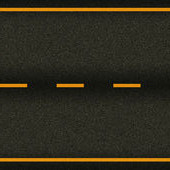
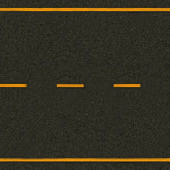
Изменения в дизайне

diff --git a/src/ConstructorController.java b/src/ConstructorController.java
@@ -240,8 +240,8 @@ public class ConstructorController {
         if (message == null) {
             modelingParking = new Parking(constructorParking.getFunctionalBlockH(), constructorParking.getFunctionalBlockV(), graphicsContextModeling, size, constructorParking);
             clearModelingContext();
-            modelingParking.drawFunctionalBlocks();
-            modelingParking.drawHighway();
+            modelingParking.drawFunctionalBlocksInModeling();
+            modelingParking.drawHighwayInModeling();
             SingleSelectionModel<Tab> singleSelectionModel = tabPane.getSelectionModel();
             singleSelectionModel.select(1);
         }
@@ -286,9 +286,8 @@ public class ConstructorController {
             String message = getErrorMessage(modelingParking);
             if (message == null) {
                 clearModelingContext();
-                modelingParking.drawHighway();
-                modelingParking.drawMarkup();
-                modelingParking.drawFunctionalBlocks();
+                modelingParking.drawHighwayInModeling();
+                modelingParking.drawFunctionalBlocksInModeling();
 
             } else {
                 Alert alert = new Alert(Alert.AlertType.WARNING);
@@ -369,10 +368,8 @@ public class ConstructorController {
 
                         // Путь от въезда до парковочного места
 
-                        ArrayList<Node> pathToFreeParkingPlace = graph.getPathToFreeParkingPlace();
-                        car.setPath(pathToFreeParkingPlace);
-                        car.setParkingPlace(pathToFreeParkingPlace.get(pathToFreeParkingPlace.size() - 1));
-                        for (Node step : car.getPath()
+                        car.setParkingPlace(graph.getFreeParkingPlace());
+                        for (Node step : car.getPathToEntry()
                                 ) {
                             path.getElements().add(new LineTo(step.getI() * size + modelingParking.getHORIZONTAL_MARGIN() + 25,
                                     step.getJ() * size + modelingParking.getVERTICAL_MARGIN() + 25));
@@ -392,7 +389,7 @@ public class ConstructorController {
                             pathTransition1.setPath(emptyPath);
                             pathTransition1.setInterpolator(Interpolator.LINEAR);
                             pathTransition1.setDuration(Duration.millis(0.1));
-                            pathTransition1.setDelay(Duration.millis(Distribution.getUniformDistribution(2000, 10000)));
+                            pathTransition1.setDelay(Duration.millis(Distribution.getUniformDistribution(20000, 100000)));
 
                             pathTransition1.setOnFinished(event1 -> {
                                 PathTransition delay = (PathTransition) event.getSource();
@@ -403,11 +400,10 @@ public class ConstructorController {
 
                                 pathToDeparture.getElements().add(new MoveTo(car_car_car.getParkingPlace().getI() * size + modelingParking.getHORIZONTAL_MARGIN() + 25,
                                         car_car_car.getParkingPlace().getJ() * size + modelingParking.getVERTICAL_MARGIN() + 25));
-                                car_car_car.setPath(graph.getPath1(car_car_car.getParkingPlace(), graph.getDeparture()));
 
                                 //Путь от парковочного места до выезда
 
-                                for (Node step : car_car_car.getPath()
+                                for (Node step : car_car_car.getPathToDeparture()
                                         ) {
                                     pathToDeparture.getElements().add(new LineTo(step.getI() * size + modelingParking.getHORIZONTAL_MARGIN() + 25,
                                             step.getJ() * size + modelingParking.getVERTICAL_MARGIN() + 25));
@@ -428,7 +424,7 @@ public class ConstructorController {
 
                                 pathToDeparture.getElements().add(new LineTo(modeling.getWidth() + 50, modelingParking.getVERTICAL_MARGIN() + modelingParking.getFunctionalBlockV() * size + 25));
 
-                                pathTransitionFromParkingPlace.setDuration(Duration.millis((modelingParking.getHORIZONTAL_MARGIN() / size * 500) + car_car_car.getPath().size() * 500 + (modelingParking.getFunctionalBlockH() - graph.getDeparture().getI()) * 500));
+                                pathTransitionFromParkingPlace.setDuration(Duration.millis((modelingParking.getHORIZONTAL_MARGIN() / size * 500) + car_car_car.getPathToDeparture().size() * 500 + (modelingParking.getFunctionalBlockH() - graph.getDeparture().getI()) * 500));
                                 pathTransitionFromParkingPlace.setPath(pathToDeparture);
                                 pathTransitionFromParkingPlace.setNode(car_car_car);
                                 pathTransitionFromParkingPlace.setPath(pathToDeparture);
@@ -446,7 +442,7 @@ public class ConstructorController {
                             pathTransition1.play();
                         });
                         pathTransition.setDuration(Duration.millis(graph.getEntry().getI() * 500
-                                + (modelingParking.getHORIZONTAL_MARGIN() / size * 500) + car.getPath().size() * 500));
+                                + (modelingParking.getHORIZONTAL_MARGIN() / size * 500) + car.getPathToEntry().size() * 500));
 
                     }
                     else{

diff --git a/src/graph/Graph.java b/src/graph/Graph.java
@@ -36,7 +36,6 @@ public class Graph implements Iterable<Node> {
                 if (parking.getParking()[i][j] instanceof ParkingPlace){
                     Node node = new Node(Template.ParkingPlace, i, j);
                     nodesList.add(node);
-                    freeParkingPlaces.add(new ParkingPlaceNode(node));
                 }
                 if (parking.getParking()[i][j] instanceof Entry){
                     Node node = new Node(Template.Entry, i, j);
@@ -82,6 +81,13 @@ public class Graph implements Iterable<Node> {
                         if (nodesList.get(j).getType()!=Template.ParkingPlace||nodesList.get(i).getType()!=Template.ParkingPlace)
                             nodesList.get(i).getAdjacentNodes().add(nodesList.get(j));
                 }
+            }
+        }
+        if (entry!=null && departure!=null) {
+            for (Node node : nodesList
+                    ) {
+                if (node.getType() == Template.ParkingPlace)
+                    freeParkingPlaces.add(new ParkingPlaceNode(node));
             }
         }
     }
@@ -178,10 +184,10 @@ public class Graph implements Iterable<Node> {
     private PriorityQueue<ParkingPlaceNode> freeParkingPlaces = new PriorityQueue<>();
 
 
-    public ArrayList<Node> getPathToFreeParkingPlace(){
+    public ParkingPlaceNode getFreeParkingPlace(){
 
         if (freeParkingPlaces.size()>0) {
-            return freeParkingPlaces.remove().pathToEntry;
+            return freeParkingPlaces.remove();
         }
         else return null;
     }
@@ -190,8 +196,8 @@ public class Graph implements Iterable<Node> {
         return freeParkingPlaces.size()>0;
     }
 
-    public void freeParkingPlace(Node parkingPlace){
-        freeParkingPlaces.add(new ParkingPlaceNode(parkingPlace));
+    public void freeParkingPlace(ParkingPlaceNode parkingPlace){
+        freeParkingPlaces.add(parkingPlace);
     }
 
     public class ParkingPlaceNode implements Comparable<ParkingPlaceNode>{
@@ -199,10 +205,6 @@ public class Graph implements Iterable<Node> {
         private Node parkingPlace;
         private ArrayList<Node> pathToEntry;
         private ArrayList<Node> pathToDeparture;
-
-        public Node getParkingPlace() {
-            return parkingPlace;
-        }
 
         public ArrayList<Node> getPathToEntry() {
             return pathToEntry;
@@ -218,9 +220,22 @@ public class Graph implements Iterable<Node> {
             pathToDeparture = Graph.this.getPath1(parkingPlace, Graph.this.departure);
         }
 
+        public int getI(){
+            return parkingPlace.getI();
+        }
+
+        public int getJ(){
+            return parkingPlace.getJ();
+        }
+
         @Override
         public int compareTo(ParkingPlaceNode o) {
             return pathToEntry.size()-o.pathToEntry.size();
+        }
+
+        @Override
+        public String toString(){
+            return parkingPlace.toString();
         }
     }
 
@@ -228,6 +243,4 @@ public class Graph implements Iterable<Node> {
     public Iterator<Node> iterator() {
         return nodesList.iterator();
     }
-
-
 }

diff --git a/src/parking/Parking.java b/src/parking/Parking.java
@@ -137,6 +137,7 @@ public class Parking implements Serializable {
         parking[i][j].render(HORIZONTAL_MARGIN + i * size + 1, VERTICAL_MARGIN + j * size + 1, size - 1);
     }
 
+
     public void createFunctionalBlock(double x, double y, Template template) {
         int i = ((int) (x - HORIZONTAL_MARGIN)) / size;
         int j = ((int) (y - VERTICAL_MARGIN)) / size;
@@ -214,12 +215,38 @@ public class Parking implements Serializable {
                 }
     }
 
+    public void drawFunctionalBlocksInModeling() {
+        for (int i = 0; i < functionalBlockH; i++)
+            for (int j = 0; j < functionalBlockV; j++)
+                if (parking[i][j] != null) {
+                    parking[i][j].render(HORIZONTAL_MARGIN + i * size, VERTICAL_MARGIN + j * size, size);
+                }
+    }
+
     public void drawHighway() {
         String imagePath = "highway_road.jpg";
         Image image = new Image(imagePath);
         for (int i = 0; i < graphicsContext.getCanvas().getWidth() / HIGHWAY_SIZE; i++) {
             graphicsContext.drawImage(image, 2 * i * size, VERTICAL_MARGIN + functionalBlockV * size + 1, HIGHWAY_SIZE, HIGHWAY_SIZE);
         }
+    }
+
+    public void drawHighwayInModeling() {
+        String imagePath = "highway_road.jpg";
+        Image image = new Image(imagePath);
+        for (int i = 0; i < entryI+HORIZONTAL_MARGIN/size; i++) {
+            graphicsContext.drawImage(image, i * size, VERTICAL_MARGIN + functionalBlockV * size, size, HIGHWAY_SIZE);
+        }
+        for (int i = entryI+1+(int)HORIZONTAL_MARGIN/size; i < departureI+(int)HORIZONTAL_MARGIN/size; i++) {
+            graphicsContext.drawImage(image, i * size, VERTICAL_MARGIN + functionalBlockV * size, size, HIGHWAY_SIZE);
+        }
+        for (int i = departureI+1+(int)HORIZONTAL_MARGIN/size; i < graphicsContext.getCanvas().getWidth() / size; i++) {
+            graphicsContext.drawImage(image, i * size, VERTICAL_MARGIN + functionalBlockV * size, size, HIGHWAY_SIZE);
+        }
+        imagePath = "highway_road_ed.jpg";
+        image = new Image(imagePath);
+        graphicsContext.drawImage(image, entryI * size+HORIZONTAL_MARGIN, VERTICAL_MARGIN + functionalBlockV * size, size, HIGHWAY_SIZE);
+        graphicsContext.drawImage(image, departureI * size+HORIZONTAL_MARGIN, VERTICAL_MARGIN + functionalBlockV * size, size, HIGHWAY_SIZE);
     }
 
     public boolean isInParking(int x, int y){

diff --git a/src/modeling/Car.java b/src/modeling/Car.java
@@ -1,38 +1,44 @@
 package modeling;
 
+import graph.Graph;
 import graph.Node;
 import javafx.scene.image.ImageView;
 
 import java.util.ArrayList;
+import java.util.Arrays;
+import java.util.Collections;
+import java.util.Random;
 
 public class Car extends ImageView {
     private static final int width = 45;
     private static final int height = 25;
+    private static Random random = new Random();
+    private static ArrayList<String> cars = new ArrayList<>();
 
-    public Node getParkingPlace() {
+    static {
+        cars.addAll(Arrays.asList("car1.png", "car2.png","car3.png","car4.png","car5.png", "car6.png","car7.png","car8.png","car9.png","car10.png"));
+    }
+
+    public Graph.ParkingPlaceNode getParkingPlace() {
         return parkingPlace;
     }
 
-    private Node parkingPlace;
-
-
-    public void setPath(ArrayList<Node> path) {
-        this.path = path;
-    }
-
-    private ArrayList<Node> path;
+    private Graph.ParkingPlaceNode parkingPlace;
 
     public Car(double x, double y) {
-        super("car-car.png");
+        super(cars.get(random.nextInt(cars.size())));
         setFitWidth(width);
         setFitHeight(height);
         setX(x);
         setY(y);
     }
 
-    public ArrayList<Node> getPath() {
-        return path;
+    public ArrayList<Node> getPathToEntry() {
+        return parkingPlace.getPathToEntry();
     }
+
+    public ArrayList<Node> getPathToDeparture() { return parkingPlace.getPathToDeparture(); }
+
 
     public double getxPosition() {
         return getTranslateX();
@@ -42,7 +48,7 @@ public class Car extends ImageView {
         return getTranslateY();
     }
 
-    public void setParkingPlace(Node parkingPlace) {
+    public void setParkingPlace(Graph.ParkingPlaceNode parkingPlace) {
         this.parkingPlace = parkingPlace;
     }
 }

diff --git a/src/parking/template/CashBox.java b/src/parking/template/CashBox.java
@@ -12,7 +12,7 @@ public class CashBox extends FunctionalBlock {
 
     @Override
     public void render(double x, double y, int size){
-        String imagePath = "cashBox.jpg";
+        String imagePath = "cashBox.png";
         Image image = new Image(imagePath);
         graphicsContext.drawImage(image, x, y, size, size);
     }
